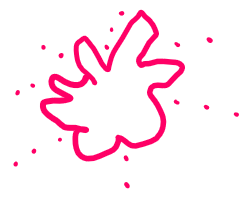
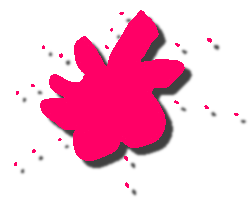
throwing works

diff --git a/src/image.py b/src/image.py
@@ -1,8 +1,9 @@
 import pygame
 import random
+import os
 
 class Image:
-    def __init__(self, image_path, width=None, height=None):
+    def __init__(self, image_path, width=None, height=None, player=False):
         self.original_image = pygame.image.load(image_path)
         if width and height:
             self.image = pygame.transform.scale(self.original_image, (width, height))
@@ -10,7 +11,28 @@ class Image:
             self.image = self.original_image
         self.rect = self.image.get_rect()
 
-        self.button = None
+        self.isPlayer = player
+        # Tomaatti 
+        if self.isPlayer:
+
+
+            self.tomaatti_path = os.path.join("assets", "tomaatti.png")
+            self.splat_path = os.path.join("assets", "splat.png")
+
+            self.tomaatti = pygame.image.load(self.tomaatti_path)
+            self.splat = pygame.image.load(self.splat_path)
+
+            self.tomaattiImage = pygame.transform.scale(self.tomaatti, (50, 50))
+            self.splatImage = pygame.transform.scale(self.splat, (50, 50))
+
+            self.tomaattiRect = self.tomaattiImage.get_rect()
+            self.splatRect = self.splatImage.get_rect()
+
+            self.tomaatti_in_motion = False
+            self.tomaatti_speed = 0.5  # Slower speed
+
+            self.splat_shown = False
+            self.tomaatti_position = [0.0, 0.0]  # Use floating-point position
 
     def resize(self, width, height):
         self.image = pygame.transform.scale(self.original_image, (width, height))
@@ -23,34 +45,89 @@ class Image:
         max_x = screen_width - self.rect.width
         max_y = screen_height - self.rect.height
 
-        # Default minimum_x to 0 if not provided
         minimum_x = min_x if min_x is not None else 0
-
-        # Ensure that minimum_x does not exceed max_x
         minimum_x = min(minimum_x, max_x)
 
-        # Debug print statements
-        print(f"Screen size: ({screen_width}, {screen_height})")
-        print(f"Image size: ({self.rect.width}, {self.rect.height})")
-        print(f"min_x: {minimum_x}, max_x: {max_x}")
-
-        # Randomly position the image within the allowed range
         x_pos = random.randint(minimum_x, max_x)
         y_pos = random.randint(0, max_y)
         self.rect.topleft = (x_pos, y_pos)
 
-        print(f"New position: {self.rect.topleft}")
+        if self.isPlayer:
+            self.tomaattiRect.topleft = (x_pos + 80, y_pos + 10)
+            self.tomaatti_position = [float(x_pos + 80), float(y_pos + 10)]  # Initialize floating-point position
 
     def flip(self, horizontal=False, vertical=False):
-        # Flip the image and create a new image
         self.image = pygame.transform.flip(self.image, horizontal, vertical)
-        
-        # Update the rect to match the new size of the flipped image
         self.rect = self.image.get_rect(topleft=self.rect.topleft)
 
     def draw(self, screen):
         screen.blit(self.image, self.rect.topleft)
 
-    def set_button(self, button):
-        self.button = button
-        self.button.rect.topleft = self.rect.topleft
+
+        if self.isPlayer:
+            screen.blit(self.tomaattiImage, self.tomaattiRect.topleft)
+            if self.splat_shown:
+                screen.blit(self.splatImage, self.splatRect.topleft)
+
+
+    def start_throw_tomato(self, target):
+        """Initiates the tomato throw towards the target."""
+        print("Tomaatti lentää")
+        self.tomaatti_in_motion = True
+        self.target = target
+        self.splat_shown = False
+
+    def update_tomato_position(self):
+        """Updates the tomato's position if it's being thrown."""
+        if self.tomaatti_in_motion:
+            # Move the tomato towards the target
+            target_x, target_y = self.target.rect.center
+            current_x, current_y = self.tomaatti_position  # Use floating-point position
+            
+            direction_x = target_x - current_x
+            direction_y = target_y - current_y
+            
+            # Normalize direction vector and move the tomato by its speed
+            distance = (direction_x**2 + direction_y**2) ** 0.5
+            if distance != 0:
+                direction_x /= distance
+                direction_y /= distance
+
+            # Update tomato position (floating-point precision)
+            self.tomaatti_position[0] += direction_x * self.tomaatti_speed
+            self.tomaatti_position[1] += direction_y * self.tomaatti_speed
+
+            # Update the rect with rounded integer position for drawing
+            self.tomaattiRect.x = int(self.tomaatti_position[0])
+            self.tomaattiRect.y = int(self.tomaatti_position[1])
+            
+            # Check for collision with the target
+            if self.tomaattiRect.colliderect(self.target.rect):
+                # Stop the tomato's motion
+                self.tomaatti_in_motion = False
+                self.splat_shown = True
+                
+                # Determine a random hit position within the top 40% of the target
+                target_x, target_y = self.target.rect.topleft
+                target_width, target_height = self.target.rect.size
+
+                # Calculate the y-coordinate range for the top 40% of the target
+                top_y = target_y
+                bottom_y = target_y + int(target_height * 0.4)
+
+                # Random hit position within the top 40% of the target
+                hit_x = random.randint(target_x, target_x + target_width)
+                hit_y = random.randint(top_y, bottom_y)
+                
+                # Set splash position to the random hit position
+                self.splatRect.center = (hit_x, hit_y)
+                
+                # Reset tomato position next to the player after the splash
+                self.tomaatti_position = [self.rect.x + 80, self.rect.y + 10]
+                self.tomaattiRect.topleft = (int(self.tomaatti_position[0]), int(self.tomaatti_position[1]))
+
+
+    def update(self, screen):
+        """Update the image and tomato in the game loop."""
+        self.draw(screen)
+        self.update_tomato_position()

diff --git a/src/main.py b/src/main.py
@@ -1,6 +1,7 @@
 import pygame
 import os
 from image import Image
+from button import Button
 
 
 
@@ -21,15 +22,20 @@ def main():
 
     # Ernesti
     ernesti_path = os.path.join("assets", "erne.png")
-    ernesti = Image(ernesti_path, 100, 100)  # Initial size 100x100
+    ernesti = Image(ernesti_path, 100, 100, player=True)  # Initial size 100x100
     ernesti.random_location(width,height,width-200)
     ernesti.flip(True)
+    ernestiPaikka = Button(width-200, height-48, 80, 40, "Liiku", (0, 0, 0), (255, 255, 255))
+    ernestiPaikkaRect = ernestiPaikka.rect
+    ernestiHeitto = Button(ernestiPaikkaRect.x + ernestiPaikkaRect.width+10, height-48, 80, 40, "Heitä", (0, 0, 0), (255, 255, 255))
 
     # Kernesti
     kernesti_path = os.path.join("assets", "kerne.png")
-    kernesti = Image(kernesti_path, 100, 100)  # Initial size 100x100
+    kernesti = Image(kernesti_path, 100, 100, player=True)  # Initial size 100x100
     kernesti.random_location(width/5,height)
-
+    kernestiPaikka = Button(width/12, height-48, 80, 40, "Liiku", (0, 0, 0), (255, 255, 255))
+    kernestiPaikkaRect = kernestiPaikka.rect
+    kernestiHeitto = Button(kernestiPaikkaRect.x + kernestiPaikkaRect.width+10, height-48, 80, 40, "Heitä", (0, 0, 0), (255, 255, 255))
 
 
     # Main game loop
@@ -39,13 +45,40 @@ def main():
             if event.type == pygame.QUIT:
                 running = False
 
+            if kernestiPaikka.is_clicked(event):
+                kernesti.random_location(width/5,height)
+
+            if ernestiPaikka.is_clicked(event):
+                ernesti.random_location(width,height,width-200)
+
+            if ernestiHeitto.is_clicked(event):
+                print("Ernesti heitti")
+
+                ernesti.start_throw_tomato(maalitaulu)
+                
+
+            if kernestiHeitto.is_clicked(event):
+                
+                kernesti.start_throw_tomato(maalitaulu)
+
         # Fill the screen with a color (RGB)
         screen.fill((0, 128, 255))
 
         # Draw the image
         maalitaulu.draw(screen)
-        ernesti.draw(screen)
-        kernesti.draw(screen)
+        # ernesti.draw(screen)
+        # kernesti.draw(screen)
+
+        # Draw the button
+        kernestiPaikka.draw(screen)
+        ernestiPaikka.draw(screen)
+
+        ernestiHeitto.draw(screen)
+        kernestiHeitto.draw(screen)
+
+
+        kernesti.update(screen)
+        ernesti.update(screen)
 
         # Update the display
         pygame.display.flip()

diff --git a/src/button.py b/src/button.py
@@ -1,0 +1,21 @@
+import pygame
+
+class Button:
+    def __init__(self, x, y, width, height, text, color, text_color):
+        self.rect = pygame.Rect(x, y, width, height)
+        self.text = text
+        self.color = color
+        self.text_color = text_color
+        self.font = pygame.font.Font(None, 36)
+
+    def draw(self, screen):
+        pygame.draw.rect(screen, self.color, self.rect)
+        text_surface = self.font.render(self.text, True, self.text_color)
+        text_rect = text_surface.get_rect(center=self.rect.center)
+        screen.blit(text_surface, text_rect)
+
+    def is_clicked(self, event):
+        if event.type == pygame.MOUSEBUTTONDOWN:
+            if self.rect.collidepoint(event.pos):
+                return True
+        return False
